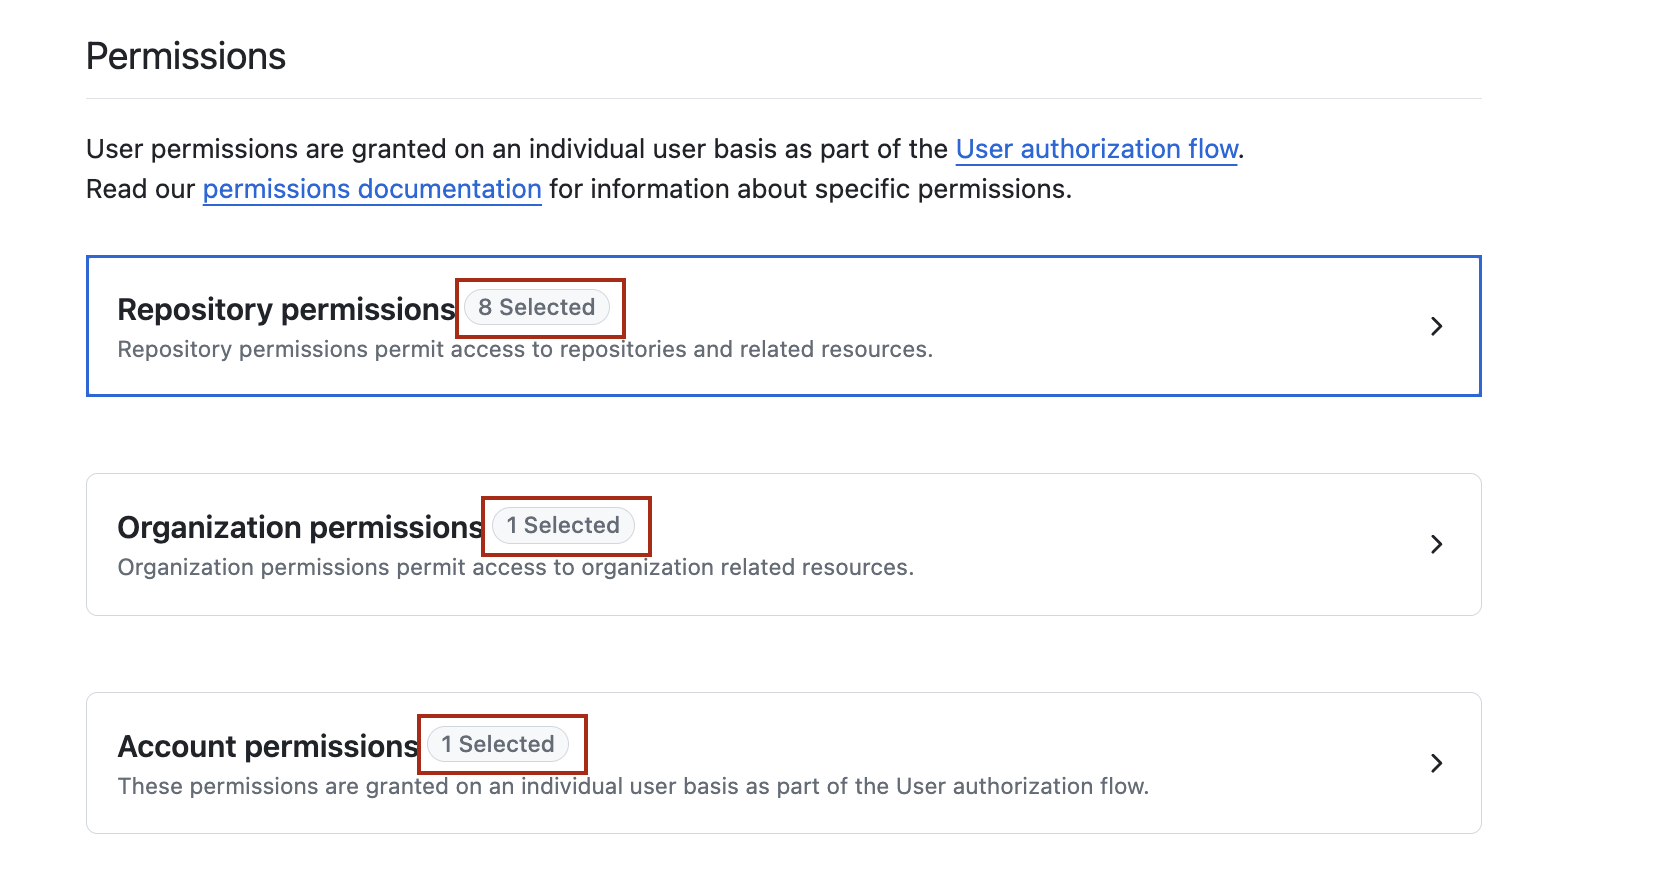
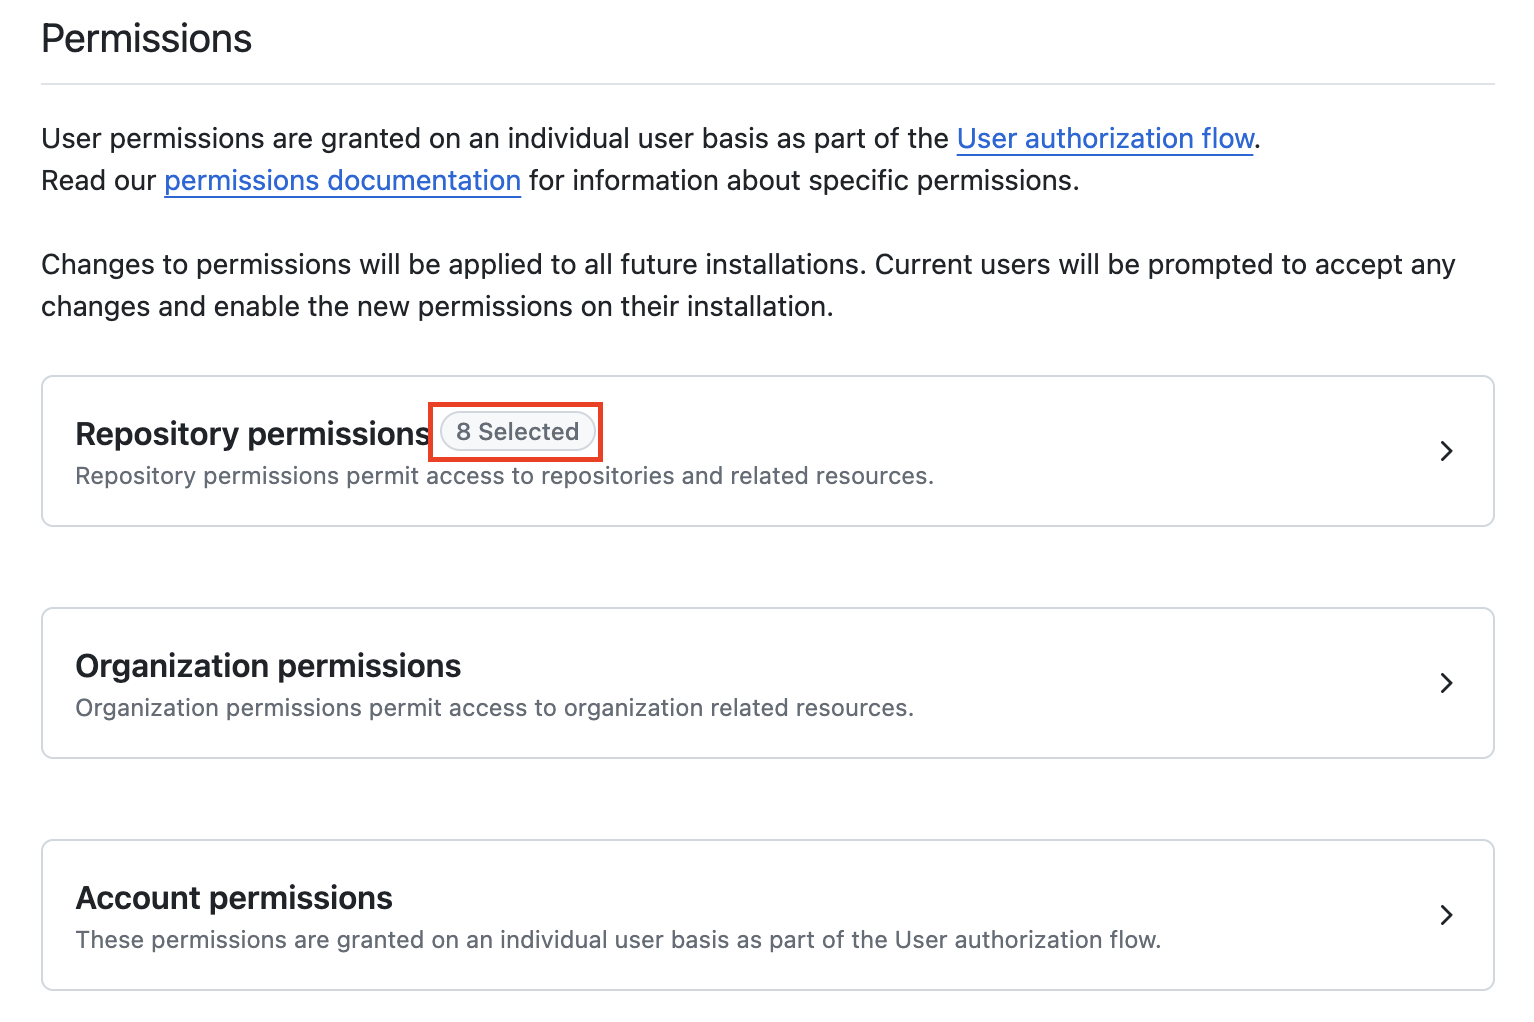
Update docs with GitHub App permissions (#4180)
Fix #3517

diff --git a/docs/docs/run_minder_server/config_provider.md b/docs/docs/run_minder_server/config_provider.md
@@ -54,10 +54,6 @@ Select the following permissions:
      - Repository security advisories (read and write)
      - Webhooks (read and write)
      - Workflows (read and write)
-   -  Organization Permissions:
-      - Members (read only)
-   - Account permissions:
-      - Email Addresses (read only)
 
 Once completed, double check your selected numbers match the ones in the screenshot.
 ![Permissions](./images/provider-permissions.png)
